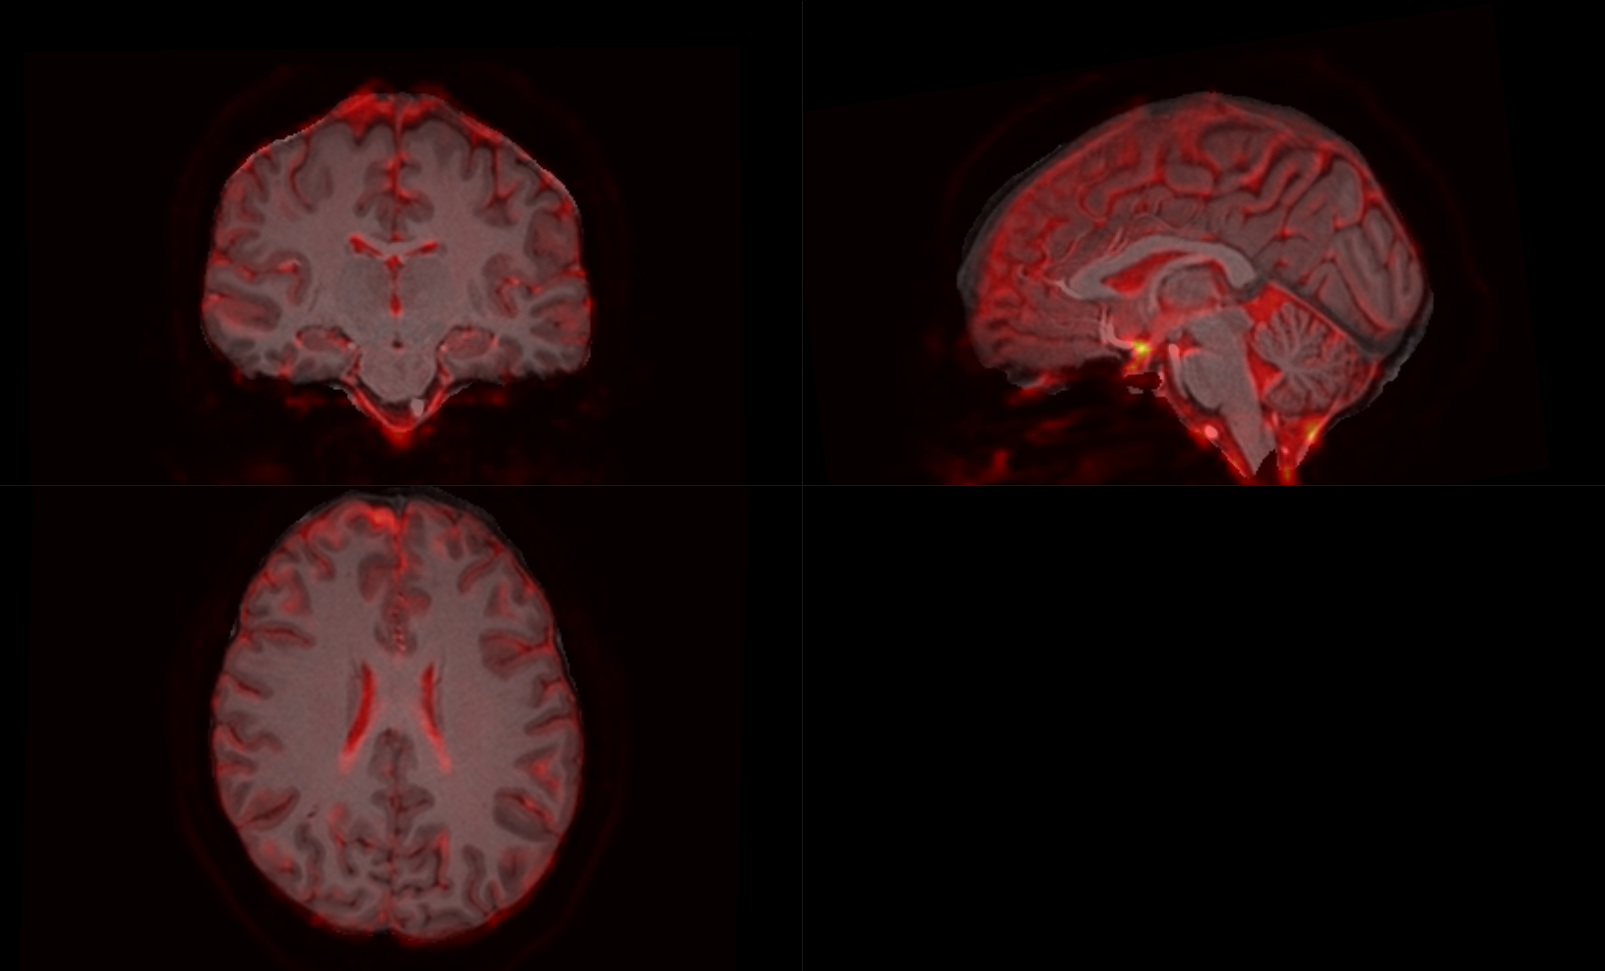
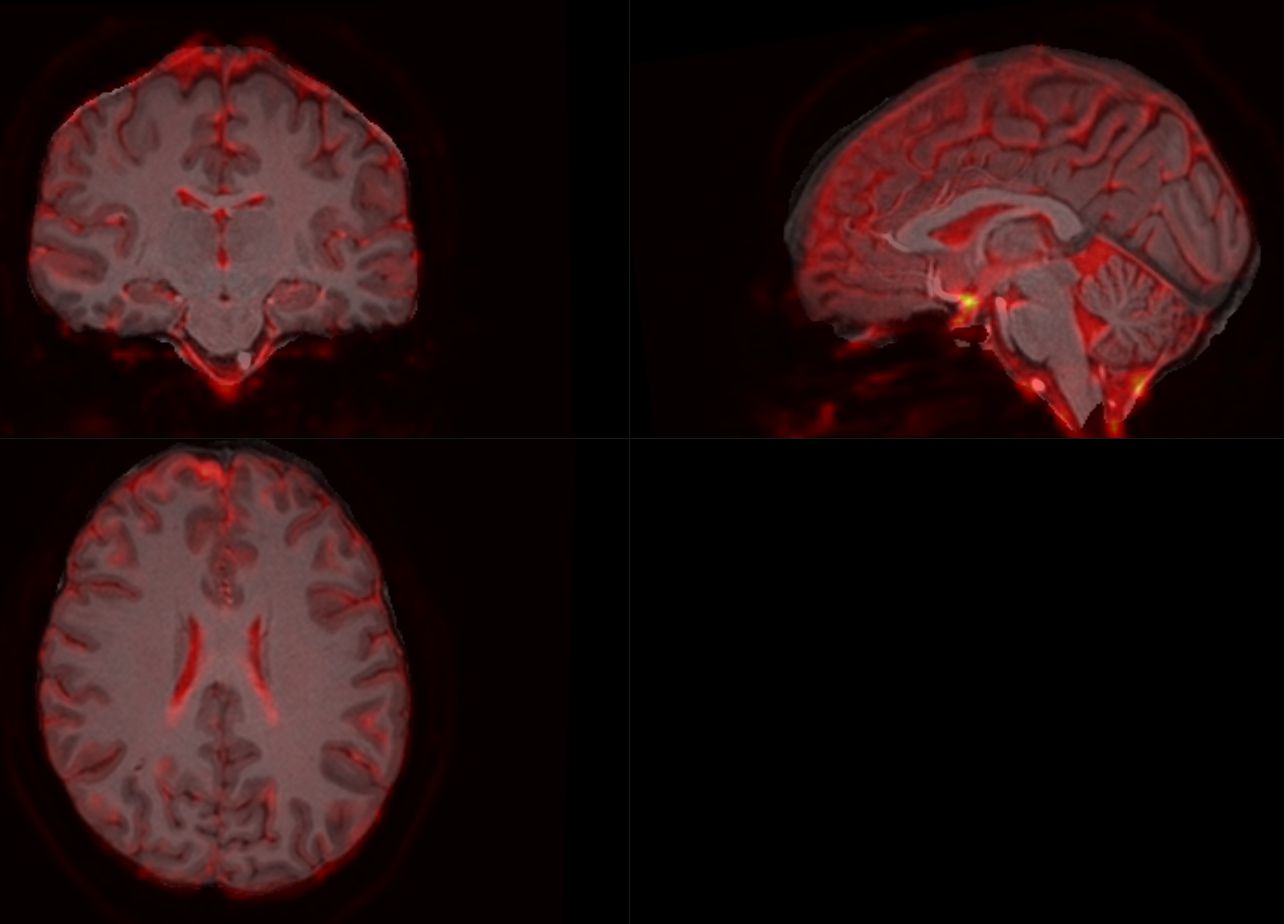
update

diff --git a/Algoritmos_y_Archivos/Registro(Transformaciones)/README.md b/Algoritmos_y_Archivos/Registro(Transformaciones)/README.md
@@ -88,7 +88,7 @@ Como podemos observar en la figura, la imagen T1w (en gris) está correctamente 
 
 Si la imagen de difusión utilizada no fue corregida por distorsiones EPI (EPI distortion correction) durante el preprocesamiento, es normal que la parte anterior del cerebro no quede perfectamente alineada. Esto ocurre porque, al calcular la imagen DWI, se utiliza un barrido de difusión en una dirección, lo que genera artefactos de achatamiento o estiramiento en la parte anterior del cerebro. Este efecto depende de la codificación de fase (phase encoding) utilizada para obtener la DWI, que usualmente es A-P (anterior-posterior) o P-A (posterior-anterior).
 
-![Alt text]()
+![Alt text](https://github.com/SebNav/Lab_viz_UDEC/blob/main/Algoritmos_y_Archivos/Registro(Transformaciones)/T1w_DWI_space.png)
 
 ### Transformación Lineal de Imagenes
 
